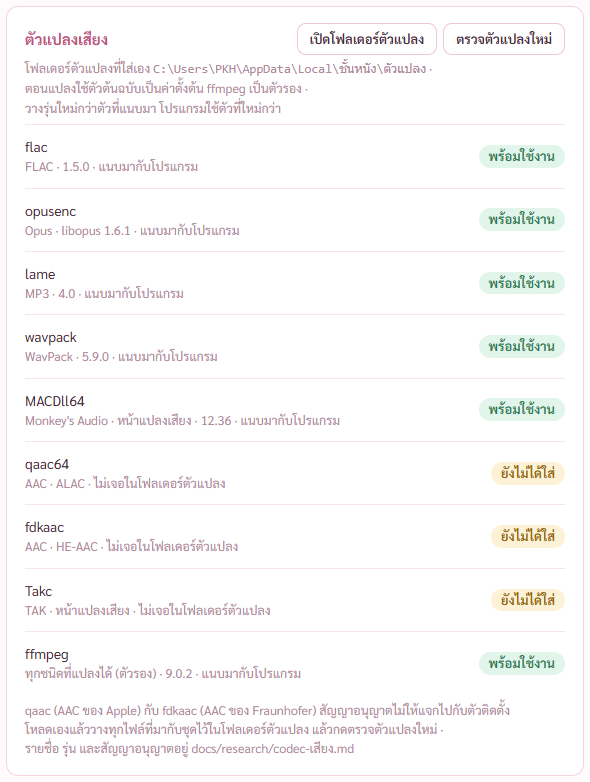
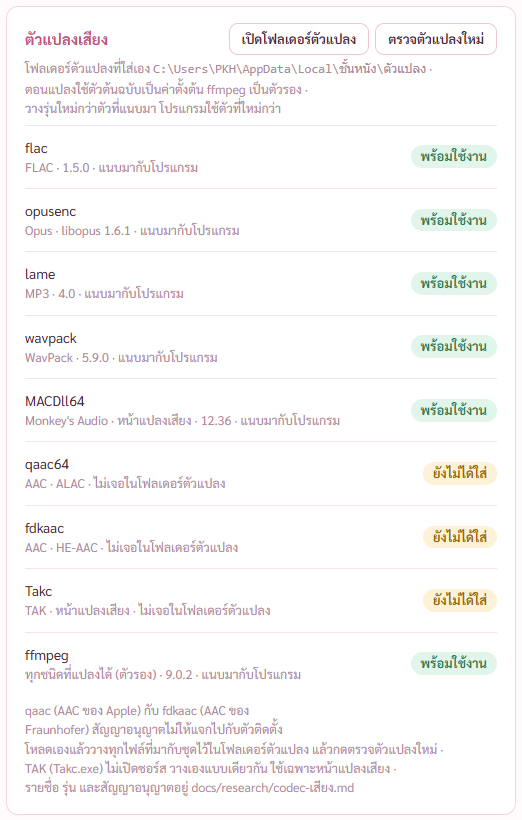
แผนเสียงและซับ ขั้น 9 เทสรวม: ตัวตรวจทุกชุดผ่านทั้งแบบทดสอบและตัวที่สร้างจริง · ตัวติดตั้งใหม่ 143.6 MB ติดตั้งเงียบ เปิด ถอนผ่าน 14/14 เช็กตัวแปลงเสียงครบ · แก้ตัวตรวจล้าสมัย 3 ตัว กับป้ายแถวที่หยุดแล้วชื่อกำกับซ้ำปุ่มหยุด
เป้าหมาย
--------
- พี่กันสั่ง "เธอ ทำให้จบทุกขั้น ตามแผนเดิม เราจะมาดูตอนเสร็จ เพราะทำงานอยู่ เรารีโหมดเข้ามา"
- ขั้น 9 ของแผนเสียงและซับ "cargo test · ตัวตรวจเดิมทุกชุด (โหมด dev และรุ่นจริง) กับชุดใหม่ · ภาพทุกสถานะ · สร้างตัวติดตั้งใหม่ ติดตั้งเงียบ เปิด ถอน (check-install.mjs)"
- รอบนี้ไม่แตะ โค้ด Rust (ไม่มีอะไรเปลี่ยน cargo test ยังเป็นผลรอบ 223bd82) · หน้าจอแก้แค่ชื่อกำกับหนึ่งจุด · ไม่ขยับรุ่น · ไม่ push

ผลลัพธ์
-------
| ชุด | แบบทดสอบ | ตัวที่สร้างจริง |
|---|---|---|
| cargo test | 100/100 | |
| check-stage1 ถึง 5 | 53/53 · 39/39 · 17/17 · 61/61 · 17/17 | |
| check-stage6 | 21/21 | 23/23 |
| check-stage7 | 13/13 | 16/16 |
| check-built | | 11/11 |
| check-review | 13/13 | |
| check-wide | 16/16 | 17/17 |
| check-graph | 66/66 | 68/68 |
| check-merge | 20/20 | 20/20 |
| check-av | 70/70 | ไม่มีแบบตัวจริง |
| check-convert | 40/40 | 42/42 (เพิ่ม 2 ข้อของตัวจริง) |
| check-install | | 14/14 (เดิม 11 เพิ่ม 3) |
รอบแรก check-stage2 38/39 กับ check-stage7 12/13 ทั้งสองข้อเป็นตัวตรวจผิด ไม่ใช่โปรแกรมผิด (ข้อ [B2] [B3]) แก้แล้วรันใหม่ผ่านครบ

ที่ทำ
-----

[1] ป้ายแถวที่หยุดแล้วในหน้าแปลงเสียง — src/components/ConvertPane.tsx (+1 −1)
เดิม       ป้ายสถานะหยุดแล้วของแถวใช้ชื่อกำกับ data-qstop ซ้ำกับปุ่มหยุดทั้งคิว
ใหม่       ป้ายแถวใช้ data-qstopped
เหตุผล     แก้บั๊ก [B1]
ตรวจ       check-convert 40/40 · รันขั้น 7 กับหน้าแปลงเสียงรวมเหลือ 74 วินาที

[2] ตัวตรวจหน้าแปลงเสียงแบบตัวจริง — scripts/check-convert.mjs (+13)
[…]

Changed region(s): [[0.0, 0.0307, 1.0, 1.0], [0.7663, 0.1535, 0.9502, 0.2148]]

diff --git a/src/components/ConvertPane.tsx b/src/components/ConvertPane.tsx
@@ -68,7 +68,7 @@ function Status({ it }: { it: QItem }) {
       <div className="small" style={{ marginTop: 3, overflow: "hidden", textOverflow: "ellipsis", whiteSpace: "nowrap" }} title={r.out}>{baseName(r.out)} · {d >= 0 ? `เล็กลง ${d}%` : `ใหญ่ขึ้น ${-d}%`}</div></div>;
   }
   if (it.state === "fail") return <div data-qfail><span className="tpill off">{it.bad ? "อ่านไฟล์ไม่ได้" : "ไม่สำเร็จ"}</span>{it.bad ? <div className="small" style={{ marginTop: 3 }}>ไม่มีแทร็กเสียง หรือไฟล์เสีย</div> : <div className="small" style={{ marginTop: 3 }}>เหตุอยู่ใต้แถว</div>}</div>;
-  if (it.state === "stop") return <div data-qstop><span className="tpill warn">หยุดแล้ว</span><div className="small" style={{ marginTop: 3 }}>ไฟล์ที่ทำค้างถูกลบ</div></div>;
+  if (it.state === "stop") return <div data-qstopped><span className="tpill warn">หยุดแล้ว</span><div className="small" style={{ marginTop: 3 }}>ไฟล์ที่ทำค้างถูกลบ</div></div>;
   return <span className="small" data-qwait>{it.file ? "รอคิว" : "กำลังอ่านไฟล์"}</span>;
 }
 

diff --git a/CLAUDE.md b/CLAUDE.md
@@ -25,7 +25,8 @@
 - เทสเรื่องรูปหรือการโหลดของ ต้องเทสกับตัวโปรแกรมที่สร้างจริง `npm run tauri build -- --debug --no-bundle` ด้วย เพราะ `tauri dev` ไม่ใช้กติกาความปลอดภัย (CSP) ตัวจริง (TECH-REVIEW ข้อ 5)
 - ไฟล์ .ps1 ที่มีภาษาไทยต้องเป็น UTF-8 มี BOM แปลงด้วย `node scripts/ps1-bom.mjs <ไฟล์>`
 - คำสั่งผ่าน Bash ของเครื่องนี้กินเครื่องหมาย \ ได้ เขียนสคริปต์เป็นไฟล์แทนการพิมพ์ในคำสั่ง (คืน 7 พ.ย. 2569 หลุดซ้ำหลายรอบ ทั้ง heredoc และ node -e)
-- ตัวตรวจผ่านโปรแกรมจริง (เปิด `scripts/dev-app.ps1` ก่อน) `check-stage1` ถึง `check-stage7` `check-graph` ของแผนเดิม · แผนเสียงและซับ `check-merge.mjs` (คำสั่งรวมไฟล์ แปลงเสียง) `check-av.mjs` (หน้าเสียงและซับ แผงตั้งค่าเสียง การ์ดตัวแปลง ถ่ายภาพลง `docs/report-2026-11-07/เสียงซับ-ขั้น2/`) · `check-convert.mjs` (หน้ากราฟเสียงโหมดแปลงเสียง เทียบสองไฟล์ ข้อมูลเพลง ภาพ 22 ถึง 30 โฟลเดอร์เดียวกัน)
+- ตัวตรวจผ่านโปรแกรมจริง (เปิด `scripts/dev-app.ps1` ก่อน) `check-stage1` ถึง `check-stage7` `check-graph` ของแผนเดิม · แผนเสียงและซับ `check-merge.mjs` (คำสั่งรวมไฟล์ แปลงเสียง) `check-av.mjs` (หน้าเสียงและซับ แผงตั้งค่าเสียง การ์ดตัวแปลง ถ่ายภาพลง `docs/report-2026-11-07/เสียงซับ-ขั้น2/`) · `check-convert.mjs` (หน้ากราฟเสียงโหมดแปลงเสียง เทียบสองไฟล์ ข้อมูลเพลง ภาพ 22 ถึง 30 โฟลเดอร์เดียวกัน · `--built` ตัวจริง)
+- รันรวม แบบทดสอบ `bash scripts/run-dev-all.sh` (ขั้น 1 ถึง 5) แล้ว `bash scripts/run-av-all.sh` (ที่เหลือทั้งหมด) · ตัวจริง `bash scripts/run-built-all.sh` · ตัวติดตั้ง `node scripts/check-install.mjs` หลัง `npm run tauri build` (เช็กเครื่องมือ 14 ไฟล์รวมตัวแปลงเสียง) · รันเสร็จคืนภาพรายงานเก่าด้วย `git checkout -- docs/` เก็บเฉพาะภาพที่ตั้งใจถ่ายใหม่
 - 🔴 `check-stage4.mjs` เขียนภาพทับรายงานเก่า `docs/report-2026-11-06/ขั้น4/` ทุกครั้งที่รัน · รันแล้วคืนด้วย `git checkout -- "docs/report-2026-11-06/ขั้น4"` ก่อน commit
 
 ## git
@@ -35,7 +36,7 @@
 - เลขรุ่นยังเป็น 0.1.0 (`package.json` `src-tauri/tauri.conf.json` `src-tauri/Cargo.toml`) · ขยับเมื่อพี่กันสั่งเลขเท่านั้น
 - บันทึก session ของโปรเจกต์อยู่ `docs/SESSION-<วันที่>.md` · commit แยกขึ้นต้น `docs: บันทึก session`
 
-## สถานะแผนเสียงและซับ (อัปเดต 8 พ.ย. 2569 หลังขั้น 8)
+## สถานะแผนเสียงและซับ (อัปเดต 8 พ.ย. 2569 หลังขั้น 9)
 - เสร็จ ขั้น 0 เตรียม · 1 งานรวมไฟล์ (merge.rs) · 2 หน้าเสียงและซับ (AvPage.tsx) · 3 ตัวแปลงเสียง (encode.rs)
 - เสร็จ ขั้น 4 การ์ดตัวแปลงในหน้าตั้งค่า · แผงตั้งค่าเสียงแบบง่ายกับขั้นสูง (CodecPanel.tsx · ข้อมูลการ์ด คำอธิบาย ⓘ ตัวย่อ ขนาดที่คาด อยู่ codecAdv.ts · ปุ่ม ⓘ InfoTip.tsx)
 - เสร็จ ขั้น 5 ตัวช่วยหาดีเลย์ (delay.rs · DelayDialog.tsx) · ปุ่มลองฟังรุ่นทดสอบส่ง dry ทำไฟล์แต่ไม่เปิดโปรแกรมเล่น (window.__delayDry ในตัวตรวจ)
@@ -43,7 +44,8 @@
 - เสร็จ ขั้น 7 จับคู่ไว้ ไม่รวม (pairs.rs · คลังหนังมีช่อง pairs · การ์ดใน ShelfPage) · ปุ่มเปิดเล่นรุ่นทดสอบส่ง dry (window.__pairDry ในตัวตรวจ)
 - เสร็จ ขั้น 8 หน้ากราฟเสียง โหมดแปลงเสียงเป็นคิว (convert.rs · ConvertPane.tsx · คิวเก็บใน lib/convertJob.ts ไม่หายเมื่อเปลี่ยนหน้า) · Monkey's Audio เรียก MACDll64.dll ตรง (ape.rs · แท็ก APEv2 เขียนเอง) · TAK ต้องวาง Takc.exe เอง · เทียบสองไฟล์ (CompareView ท้าย GraphPage.tsx) · ข้อมูลเพลง (TagDialog.tsx)
 - 🔴 MACDll64.dll ที่แนบในชุด SDK 13.45 เป็นรุ่น 12.36 (DLL ตอบเอง · vendor/README.md)
-- ยังไม่เริ่ม ขั้น 9 ถึง 10 · รายงานล่าสุด [docs/REPORT-2026-11-08-หน้าแปลงเสียง.md](docs/REPORT-2026-11-08-หน้าแปลงเสียง.md) · ขั้น 7 [docs/REPORT-2026-11-08-จับคู่ไม่รวม.md](docs/REPORT-2026-11-08-จับคู่ไม่รวม.md) · ขั้น 6 [docs/REPORT-2026-11-08-ตัวดูซับ.md](docs/REPORT-2026-11-08-ตัวดูซับ.md) · ขั้น 5 [docs/REPORT-2026-11-08-ตัวช่วยหาดีเลย์.md](docs/REPORT-2026-11-08-ตัวช่วยหาดีเลย์.md) · ขั้น 4 [docs/REPORT-2026-11-08-แผงตั้งค่าเสียงขั้นสูง.md](docs/REPORT-2026-11-08-แผงตั้งค่าเสียงขั้นสูง.md)
+- เสร็จ ขั้น 9 เทสรวมทุกชุด (แบบทดสอบและตัวจริง) ตัวติดตั้งใหม่ติดตั้งเงียบ เปิด ถอนผ่าน · รายงาน [docs/REPORT-2026-11-08-เทสรวม.md](docs/REPORT-2026-11-08-เทสรวม.md)
+- ยังไม่เริ่ม ขั้น 10 · ขั้น 8 [docs/REPORT-2026-11-08-หน้าแปลงเสียง.md](docs/REPORT-2026-11-08-หน้าแปลงเสียง.md) · ขั้น 7 [docs/REPORT-2026-11-08-จับคู่ไม่รวม.md](docs/REPORT-2026-11-08-จับคู่ไม่รวม.md) · ขั้น 6 [docs/REPORT-2026-11-08-ตัวดูซับ.md](docs/REPORT-2026-11-08-ตัวดูซับ.md) · ขั้น 5 [docs/REPORT-2026-11-08-ตัวช่วยหาดีเลย์.md](docs/REPORT-2026-11-08-ตัวช่วยหาดีเลย์.md) · ขั้น 4 [docs/REPORT-2026-11-08-แผงตั้งค่าเสียงขั้นสูง.md](docs/REPORT-2026-11-08-แผงตั้งค่าเสียงขั้นสูง.md)
 - Esc ปิดเฉพาะชั้นบนสุด (lib/popup.ts useEscClose เป็นชั้นซ้อน) · ของที่กางใหม่ที่ปิดด้วย Esc ใช้ตัวนี้ ห้ามดักที่หน้าต่างเอง ไม่งั้นกด Esc ในดรอปดาวน์แล้วหน้าต่างข้างหลังปิดไปด้วย
 
 ## ผู้ช่วย (เอเจนต์)

diff --git a/docs/REPORT-2026-11-08-เทสรวม.md b/docs/REPORT-2026-11-08-เทสรวม.md
@@ -1,0 +1,59 @@
+# รายงาน 8 พ.ย. 2569 · เทสรวมทุกชุดกับตัวติดตั้งใหม่ (แผนเสียงและซับ ขั้น 9)
+
+พี่กันสั่ง *"เธอ ทำให้จบทุกขั้น ตามแผนเดิม เราจะมาดูตอนเสร็จ เพราะทำงานอยู่ เรารีโหมดเข้ามา"*
+ทุกชุดรันกับโปรแกรมแบบเปิดอยู่หลังสุด ถ่ายภาพผ่าน CDP · ตัวติดตั้งลงแบบเงียบในโฟลเดอร์ทดสอบบนไดรฟ์ D ไม่มีหน้าต่างขึ้นจอ ถอนแบบเงียบตอนจบ
+
+## 1. ผลทุกชุด
+
+| ชุด | โปรแกรมแบบทดสอบ | ตัวที่สร้างจริง |
+|---|---|---|
+| เทส Rust `cargo test` | 100/100 | |
+| ขั้น 1 ชิ้นส่วนกลาง `check-stage1` | 53/53 | |
+| ขั้น 2 ชั้นวาง `check-stage2` | 39/39 (รอบแรก 38/39 ตัวตรวจล้าสมัย ข้อ 3) | |
+| ขั้น 3 เปลี่ยนชื่อ `check-stage3` | 17/17 | |
+| ขั้น 4 ใส่โปสเตอร์ `check-stage4` | 61/61 | |
+| ขั้น 5 ข้อมูลไฟล์ `check-stage5` | 17/17 | |
+| ขั้น 6 ตรวจไฟล์ `check-stage6` | 21/21 | 23/23 |
+| ขั้น 7 ตั้งค่า `check-stage7` | 13/13 (รอบแรก 12/13 ตัวตรวจอ่านเร็วเกิน ข้อ 3) | 16/16 |
+| ตัวจริงรวม `check-built` | | 11/11 |
+| ผู้ช่วยตรวจรอบเดิม `check-review` | 13/13 | |
+| จอกว้าง `check-wide` | 16/16 | 17/17 |
+| หน้ากราฟเสียง `check-graph` | 66/66 | 68/68 |
+| รวมไฟล์ `check-merge` | 20/20 | 20/20 |
+| หน้าเสียงและซับ `check-av` | 70/70 | ไม่มีแบบตัวจริง (ลากไฟล์ผ่านตัวช่วยที่มีเฉพาะโหมดทดสอบ) |
+| หน้าแปลงเสียง `check-convert` | 40/40 | 42/42 (เพิ่มข้อหน้าโหลดจากตัวโปรแกรม กับไม่มีอะไรโดนกติกาความปลอดภัยกัน) |
+| ตัวติดตั้ง `check-install` | | 14/14 (เดิม 11 ข้อ เพิ่ม 3) |
+
+ผลของตัวจริงเก็บที่ `report-2026-11-07/เสียงซับ-ตัวจริง/ผลเทส-แปลงเสียง.json` กับ `ผลเทส-ตัวติดตั้ง.json` · ภาพของตัวจริงไม่เก็บ (หน้าตาเหมือนภาพโหมดทดสอบในรายงานขั้น 8)
+
+## 2. ตัวติดตั้งใหม่
+
+- `ชั้นหนัง_0.1.0_x64-setup.exe` 143.6 MB (เดิมไม่มีตัวแปลงเสียง) · ติดตั้งแบบเงียบใช้ 18 วินาที
+- เครื่องมือลงครบ 14 ไฟล์ ค่า hash ตรงกับที่โหลดมา (เพิ่ม flac กับ libFLAC.dll · lame กับ libmpg123-0.dll · opusenc · wavpack · MACDll64.dll) · ไฟล์สัญญาอนุญาต 9 ไฟล์
+- ตัวที่ติดตั้งเรียกตัวแปลงได้ flac 1.5.0 · opusenc libopus 1.6.1 · lame 4.0 · wavpack 5.9.0 · Monkey's Audio 12.36 · ffmpeg 9.0.2 · qaac fdkaac TAK ไม่มี (วางเอง)
+- ตัวที่ติดตั้งอ่านไฟล์เสียงเข้าคิวแปลงได้ ข้อมูลเพลง 5 ช่องกับปก
+- คำสั่งที่มีไว้เทส (หลอกที่ว่าง ตั้งผลตรวจ ลืมผลกราฟ) ไม่มีในตัวติดตั้ง
+- ปิดโปรแกรมระหว่างครอบไฟล์ 1.6 GB รองานหยุด ลบไฟล์ทำค้าง ปิดเองใน 0.6 วินาที ไฟล์เดิม hash เท่าเดิม
+- ถอนแบบเงียบ ไฟล์โปรแกรมหายหมด ไฟล์หนังในโฟลเดอร์ชั้นวางอยู่ครบ hash เท่าเดิม
+
+## 3. เรื่องที่เจอและแก้
+
+**ตัวตรวจขั้น 2 ล้าสมัย** · หยิบเมนูลำดับที่ 3 เป็นเมนูตรวจไฟล์ ตั้งแต่มีเมนูเสียงและซับแทรก (แผนเสียงและซับ ขั้น 2) เมนูที่ 3 กลายเป็นเสียงและซับที่ไม่มีตัวเลข · โปรแกรมไม่ได้ผิด · แก้ตัวตรวจให้หาเมนูจากชื่อ
+
+**ตัวตรวจขั้น 7 อ่านป้าย Icaros ตอนยังเช็กไม่เสร็จ** · ระหว่างเช็กป้ายเป็นโครงจาง ไม่มีทั้งปุ่มวิธีลงและคำว่าลงแล้ว ตัวตรวจเลยเข้าทางผิด (เครื่องนี้ยังไม่ได้ลง Icaros หน้าจอขึ้นยังไม่ได้ลงถูกต้อง) · ให้ตัวตรวจรอผลเช็กก่อน
+
+**หน้าแปลงเสียง ป้ายแถวที่หยุดแล้วใช้ชื่อกำกับซ้ำกับปุ่มหยุดทั้งคิว** · ตัวตรวจที่รอให้ปุ่มหยุดหายเลยรอเปล่าจนหมดเวลาทุกรอบ ผลยังถูกแต่ช้า · เปลี่ยนชื่อกำกับของป้ายแถว · ขั้น 7 กับหน้าแปลงเสียงรันรวมเหลือ 74 วินาที
+
+**ตัวตรวจตัวติดตั้งเช็กเครื่องมือแค่ 7 ไฟล์ของแผนเดิม** · ไม่ได้เช็กตัวแปลงเสียงที่แผนนี้เพิ่ม · เติมให้เช็ก 14 ไฟล์ ตัวแปลงเรียกได้ อ่านไฟล์เข้าคิวได้ คำสั่งหลอกที่ว่างไม่หลุดไปตัวจริง
+
+## 4. สคริปต์รันรวม
+
+- `scripts/run-dev-all.sh` ขั้น 1 ถึง 5 (เดิม)
+- `scripts/run-av-all.sh` (ใหม่) ขั้น 6 ขั้น 7 รวมไฟล์ ผู้ช่วยตรวจเดิม จอกว้าง กราฟ เสียงและซับ แปลงเสียง
+- `scripts/run-built-all.sh` ตัวจริง เพิ่มรวมไฟล์กับแปลงเสียง
+- ตัวตรวจหลายตัวถ่ายภาพทับรายงานเก่า รันเสร็จแล้วคืนด้วย `git checkout -- docs/` (เก็บเฉพาะภาพที่ตั้งใจถ่ายใหม่)
+
+## 5. งานค้าง
+
+- ขั้น 10 ผู้ช่วยตรวจ 1 ตัว แล้วแก้ตามผล
+- ยังไม่ได้ตรวจกับหนังจริงและเพลงจริงของพี่กัน · TAK แปลงจริง (ไม่มี Takc.exe) · ปุ่มที่เปิดหน้าต่างขึ้นจอ
